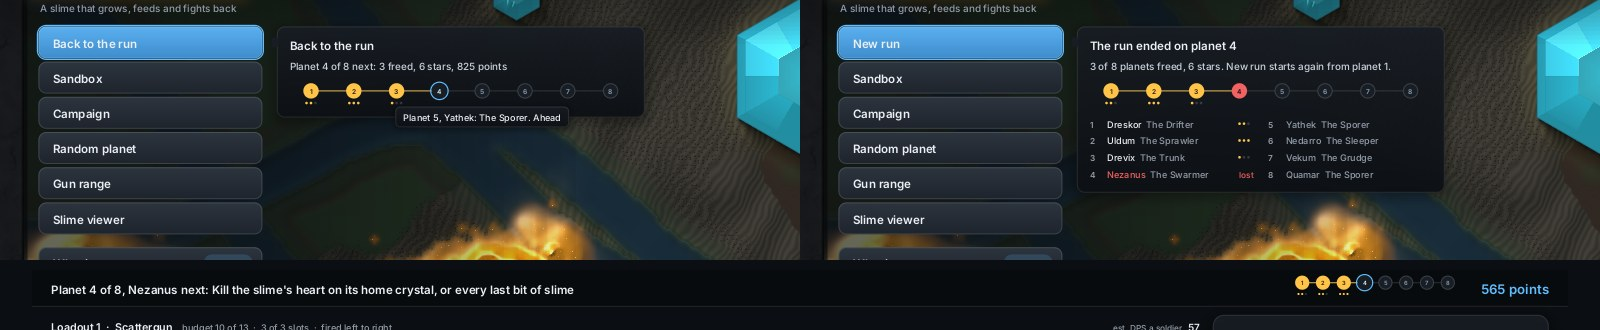
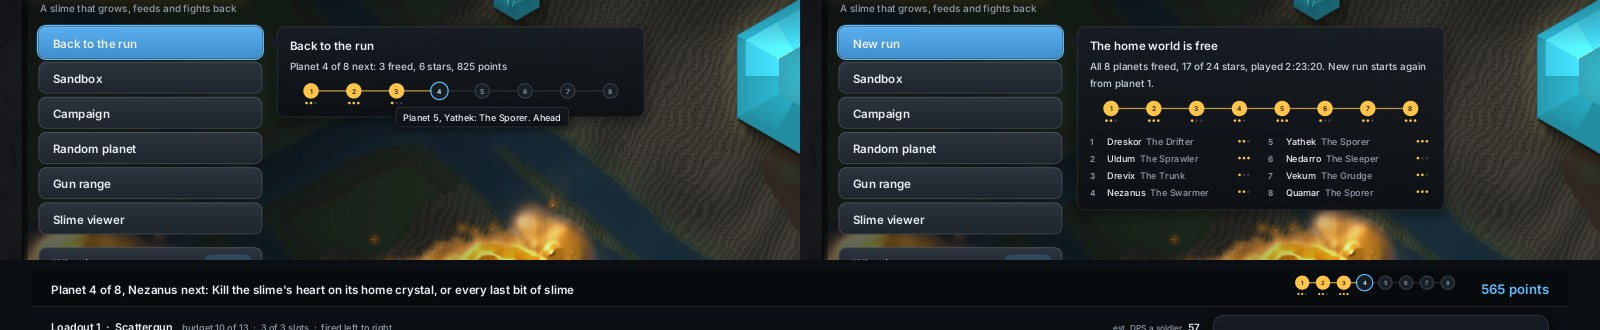
Look D: the run's play time on the Run row and the end summary
Reads Engine's Run::played (#768); an older save (0) shows none.
Films: main-run, main-won, main-lost play about 18 minutes a planet.

Claude-Session: https://claude.ai/code/session_01TFcbG4kjXzCgswWqzPNG9n

diff --git a/src/bin/larder-world/menu.rs b/src/bin/larder-world/menu.rs
@@ -485,7 +485,7 @@ pub(super) fn run_view(r: &Run) -> slime_mould::world::start::RunView {
             RunStop { name: at.planet().name, slime: title_case(at.level().tier.name()), stars, here: d == r.depth && stars.is_none(), lost: r.over && !r.victory() && d == r.depth }
         })
         .collect();
-    RunView { stops, depth: r.depth, points: r.points, played: None, over: r.over, won: r.victory(), mid: false }
+    RunView { stops, depth: r.depth, points: r.points, played: (r.played > 0.0).then_some(r.played), over: r.over, won: r.victory(), mid: false }
 }
 
 /// The estimated damage a second of the gun the shop's slots show

diff --git a/src/bin/larder-world/headless.rs b/src/bin/larder-world/headless.rs
@@ -110,6 +110,8 @@ pub(super) fn headless(args: Args, dir: &str, hand: &str, at: &[f32], screen: (u
             if flag == "main-lost" {
                 r.lost();
             }
+            // About 18 minutes a planet, so the line shows a play time.
+            r.played = 1075.0 * r.depth as f32;
             if r.over {
                 m.run_end = Some(menu::run_view(&r));
                 m.run_live = false;
